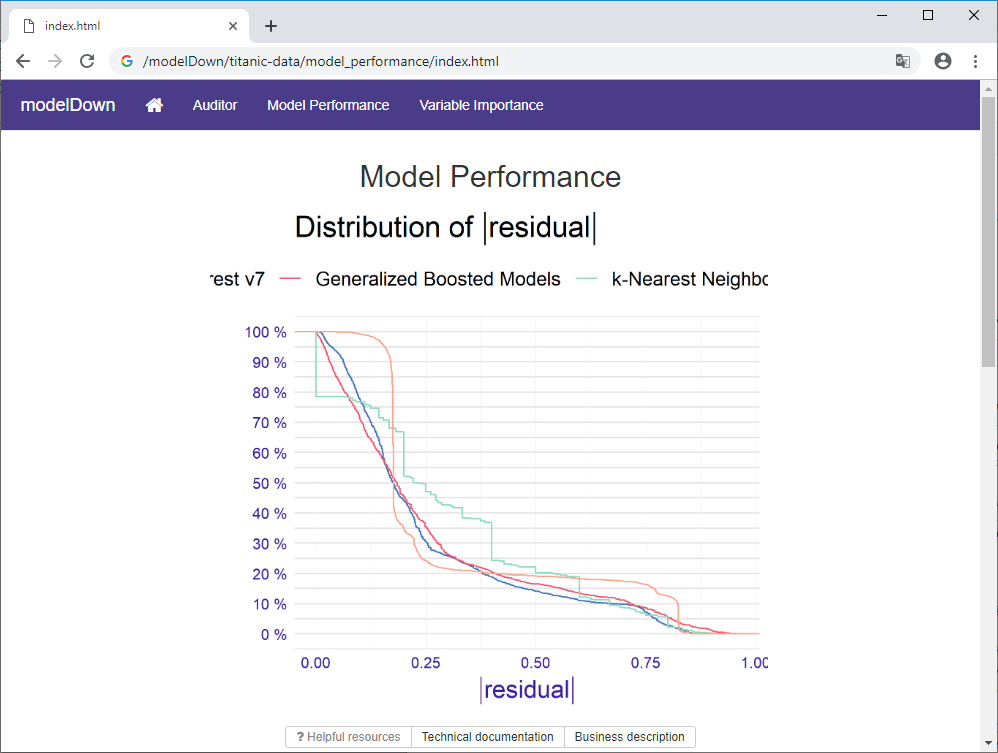
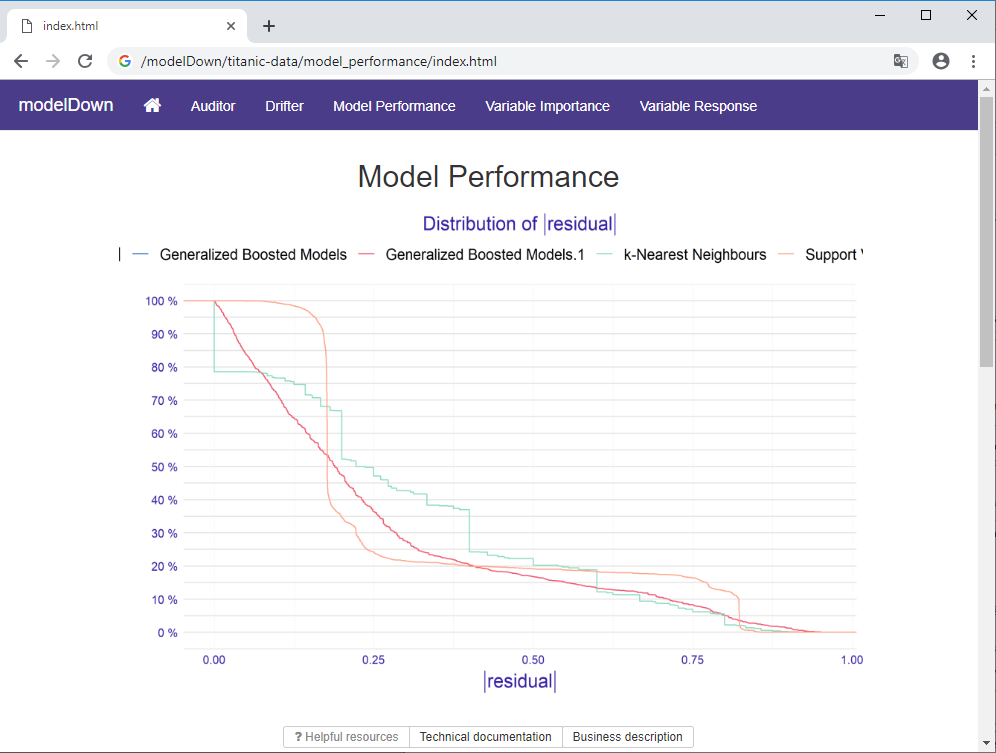
Update JOSS paper_images

diff --git a/paper.md b/paper.md
@@ -78,7 +78,7 @@ The 'Auditor' tab presents different ways of validating predictive models by ana
 
 The 'Model performance' tab uses functions from DALEX package [@DALEX]. It shows contrastive comparisons of model predictive power by analyzing residuals. Read more about this type of model diagnostic in [@PM_VEE].
 
-The 'Model performance' tab lets you compare different models. The same applies for all tabs created with modelDown. This allows users not only to validate one model, but to pick the best model among many. Below we can see that the best ROC curve is obtained for the Random Forest model.
+The 'Model performance' tab lets you compare different models. The same applies for all tabs created with modelDown. This allows users not only to validate one model, but to pick the best model among many. Below we can see different distributions of residuals for the models.
 
 -![Example model performance tab.](paper_images/model_performance.png)
 
